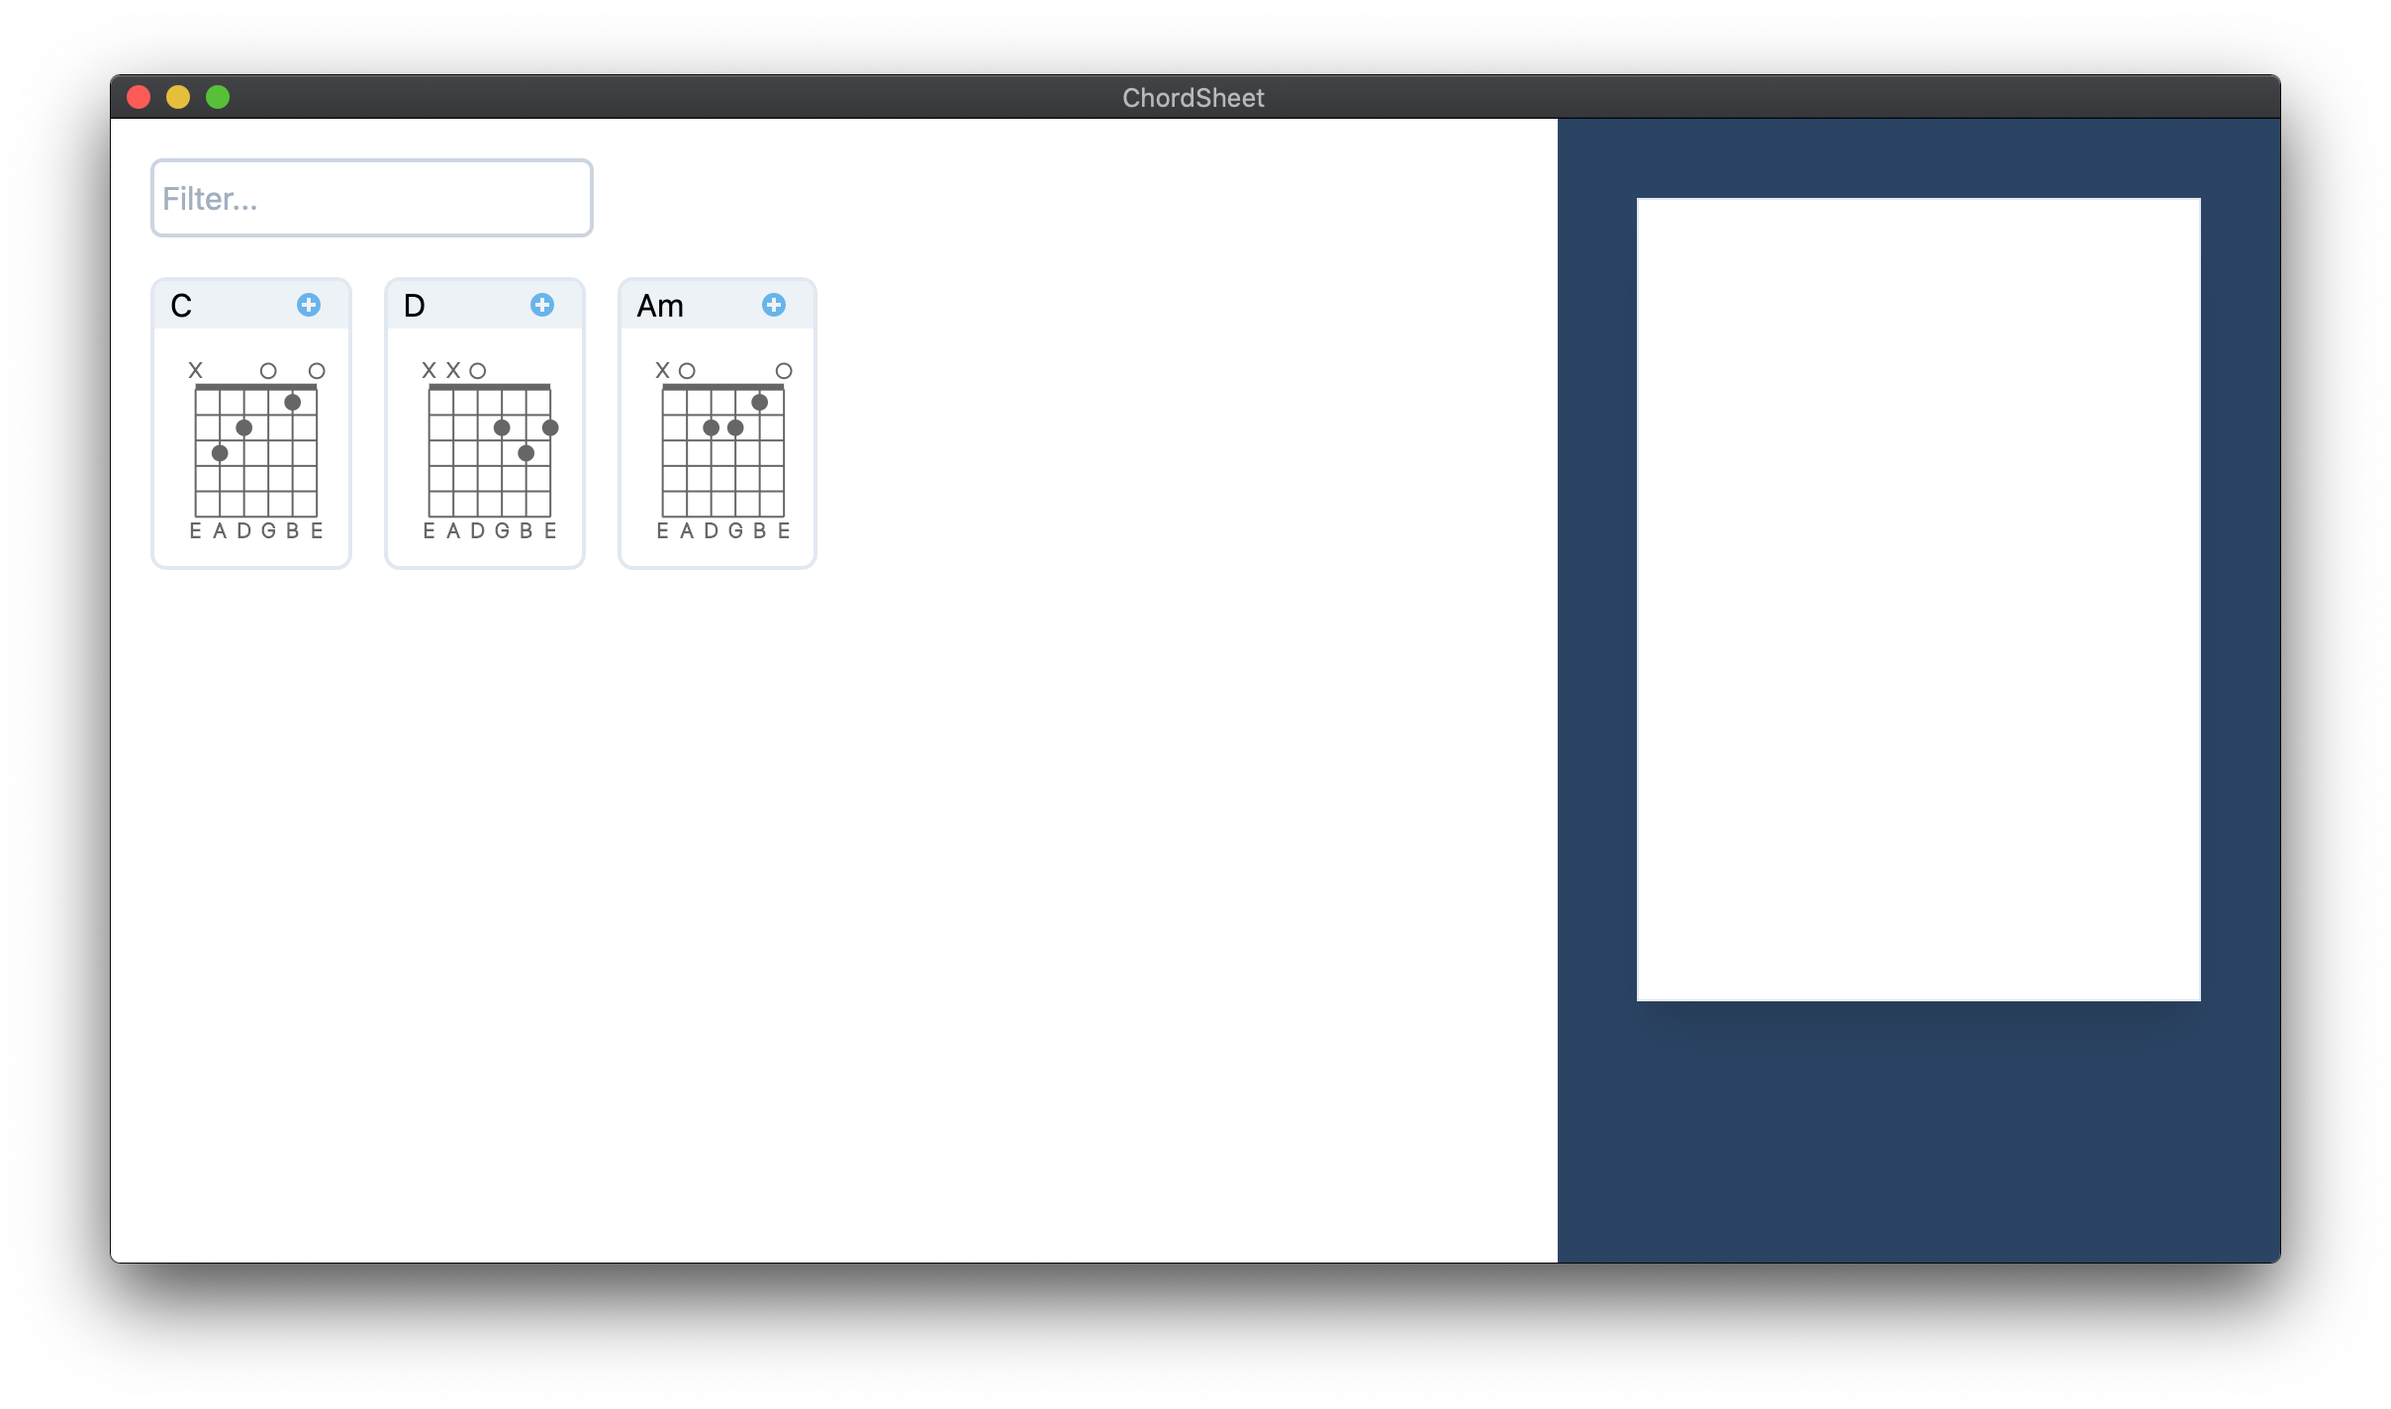
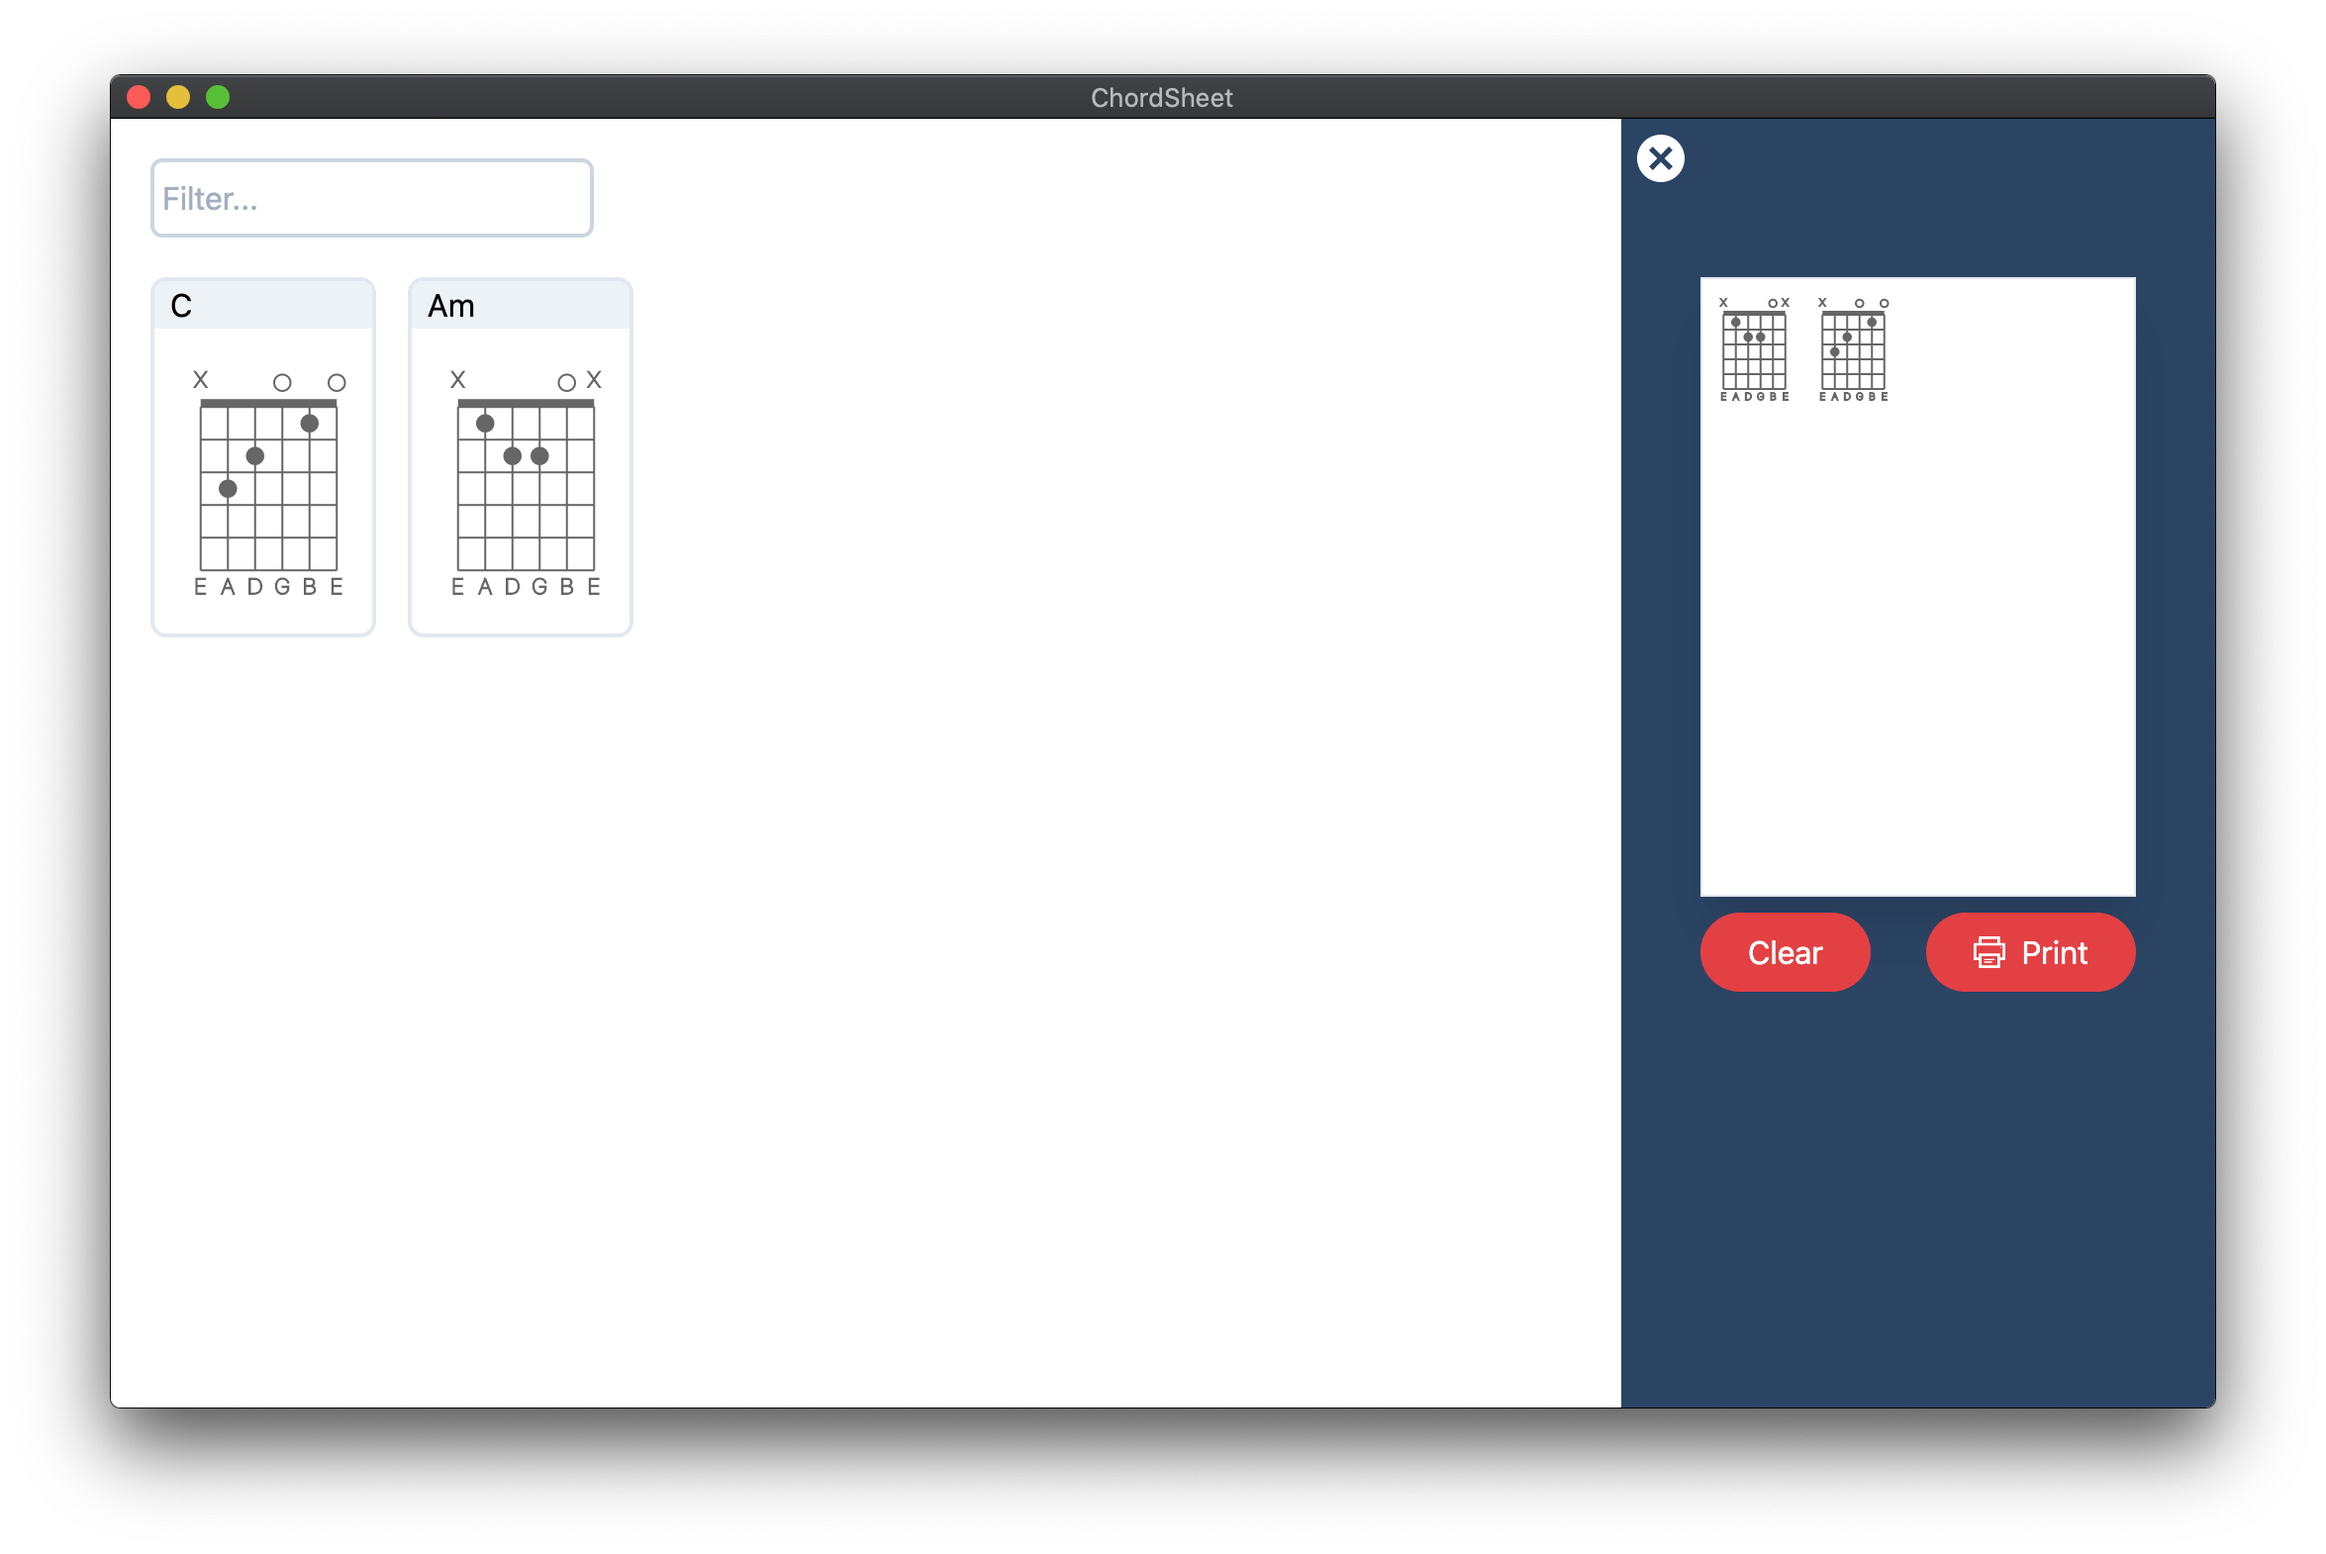
Searching chords. Clearing selections

Changed region(s): [[0.0311, 0.0309, 0.963, 0.927]]

diff --git a/src/App.tsx b/src/App.tsx
@@ -21,6 +21,8 @@ function App() {
   const [selected, setSelected] = useState([]);
   const [isSidebarOpen, setSidebarOpen] = useState(false);
 
+  const [searchString, setSearchString] = useState("");
+
   function handleAddClicked(data: ChordData) {
     const isSelected = selected.find((c: ChordData) => c.name === data.name);
     if (isSelected) return;
@@ -30,10 +32,14 @@ function App() {
 
   function handlePrint() {
     console.log('"Print" clicked');
+    const result = ipcRenderer.sendSync("print-pdf");
+    console.log("IPC CALLED");
+    console.log({ result });
   }
 
   function handleClear() {
     console.log('"Clear" clicked');
+    setSelected([]);
   }
 
   useEffect(() => {
@@ -41,7 +47,16 @@ function App() {
     setChords(result);
   }, []);
 
-  const chordsComponents = chords.map((data) => {
+  const filteredChords = chords.filter((data: ChordData) => {
+    if (!searchString || searchString.length == 0) return true;
+
+    const pattern = new RegExp(`^${searchString}`);
+    if (pattern.test(data.name)) return true;
+
+    return false;
+  });
+
+  const chordsComponents = filteredChords.map((data: ChordData) => {
     const id = getChordIdentifier(data);
 
     return (
@@ -61,9 +76,9 @@ function App() {
         <div className="w-full overflow-auto overflow-x-hidden">
           <div className="flex pt-5 pl-5 pr-10">
             <Search
-              value=""
+              value={searchString}
               onChange={(value: string) => {
-                console.log(value);
+                setSearchString(value);
               }}
             />
             <div className="flex-grow"></div>
@@ -78,13 +93,15 @@ function App() {
         </div>
         <Sidebar open={isSidebarOpen} onClose={() => setSidebarOpen(false)}>
           <Sheet chords={selected} />
-          <Button onClick={handleClear}>Clear</Button>
-          <Button
-            onClick={handlePrint}
-            icon={<PrintIcon size={16} color="#fff" />}
-          >
-            Print
-          </Button>
+          <div className="flex justify-between mt-2">
+            <Button onClick={handleClear}>Clear</Button>
+            <Button
+              onClick={handlePrint}
+              icon={<PrintIcon size={16} color="#fff" />}
+            >
+              Print
+            </Button>
+          </div>
         </Sidebar>
       </div>
     </div>

diff --git a/src/index.ts b/src/index.ts
@@ -19,10 +19,27 @@ ipcMain.on("read-config", (event) => {
     try {
       event.returnValue = JSON.parse(data);
     } catch (error) {
-      console.log(error);
       event.returnValue = [];
     }
   });
+});
+
+ipcMain.on("print-pdf", (event) => {
+  const pdfPath = path.join(__dirname, "print.pdf");
+  event.returnValue = pdfPath;
+  const win = BrowserWindow.fromWebContents(event.sender);
+  win.webContents
+    .printToPDF({})
+    .then((value: Buffer) => {
+      fs.writeFile(pdfPath, value, function (error) {
+        if (error) {
+          throw error;
+        }
+      });
+    })
+    .catch((reason) => {
+      console.log(reason);
+    });
 });
 
 const createWindow = () => {

diff --git a/src/components/Button.tsx b/src/components/Button.tsx
@@ -9,10 +9,10 @@ interface ButtonProps {
 
 export default function Button(props: ButtonProps) {
   let classes =
-    "flex items-center justify-center p-2 pl-6 pr-6 m-2 text-white bg-red-600 rounded-full active:bg-red-800 focus:outline-none";
+    "flex items-center justify-center p-2 pl-6 pr-6 text-white bg-red-600 rounded-full active:bg-red-800 focus:outline-none";
   if (props.icon) {
     classes =
-      "flex items-center justify-begin p-2 pl-6 pr-6 m-2 text-white bg-red-600 rounded-full active:bg-red-800 focus:outline-none";
+      "flex items-center justify-begin p-2 pl-6 pr-6 text-white bg-red-600 rounded-full active:bg-red-800 focus:outline-none";
   }
 
   return (

diff --git a/webpack.renderer.config.js b/webpack.renderer.config.js
@@ -1,9 +1,10 @@
-const rules = require('./webpack.rules');
-const plugins = require('./webpack.plugins');
+/* eslint-disable @typescript-eslint/no-var-requires */
+const rules = require("./webpack.rules");
+const plugins = require("./webpack.plugins");
 
 rules.push({
   test: /\.css$/,
-  use: [{ loader: 'style-loader' }, { loader: 'css-loader' }],
+  use: [{ loader: "style-loader" }, { loader: "css-loader" }],
 });
 
 module.exports = {
@@ -12,6 +13,6 @@ module.exports = {
   },
   plugins: plugins,
   resolve: {
-    extensions: ['.js', '.ts', '.jsx', '.tsx', '.css']
+    extensions: [".js", ".ts", ".jsx", ".tsx", ".css"],
   },
 };

diff --git a/src/components/Sheet.tsx b/src/components/Sheet.tsx
@@ -39,7 +39,10 @@ function Sheet(props: SheetProps) {
   });
 
   return (
-    <div className="bg-white border border-solid shadow-xl aspect-ratio-a4">
+    <div
+      id="print"
+      className="bg-white border border-solid shadow-xl aspect-ratio-a4"
+    >
       <div className="absolute flex">{chords}</div>
     </div>
   );

diff --git a/webpack.plugins.js b/webpack.plugins.js
@@ -1,3 +1,4 @@
+// eslint-disable-next-line @typescript-eslint/no-var-requires
 const ForkTsCheckerWebpackPlugin = require("fork-ts-checker-webpack-plugin");
 
 module.exports = [new ForkTsCheckerWebpackPlugin()];

diff --git a/webpack.main.config.js b/webpack.main.config.js
@@ -1,3 +1,4 @@
+// eslint-disable-next-line @typescript-eslint/no-var-requires
 const CopyPlugin = require("copy-webpack-plugin");
 
 module.exports = {

diff --git a/README.md b/README.md
@@ -5,14 +5,15 @@ Chord Sheet is a Electron app for creating printable guitar chord sheets. I star
 ![Screenshot of Chord sheet](screenshots/screenshot01.png?raw=true "Screenshot")
 
 ## Tasks
+
 - [x] Render chords using vexchords
 - [x] Read chords from local file
 - [x] Select chords for printing
 - [x] Use vexchord parameter format for chords.json
 - [x] Open/hide side bar with currently selected chords
-- [ ] Integration tests using testing-library
-- [ ] Layout selected chords for A4 paper
+- [x] Layout selected chords for A4 paper
+- [x] Clearing selections
+- [x] Filter chords with text search
 - [ ] Print chord sheet
-- [ ] Clearing selections
 - [ ] Support barre chords
-- [ ] Filter chords with text search
+- [ ] Integration tests using testing-library
